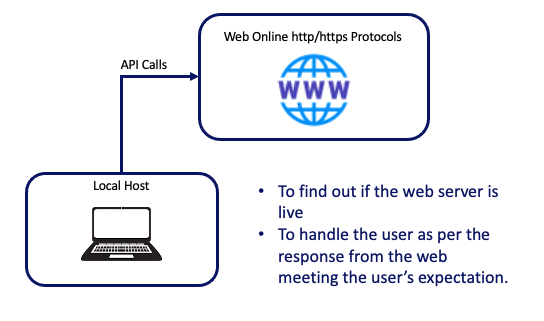
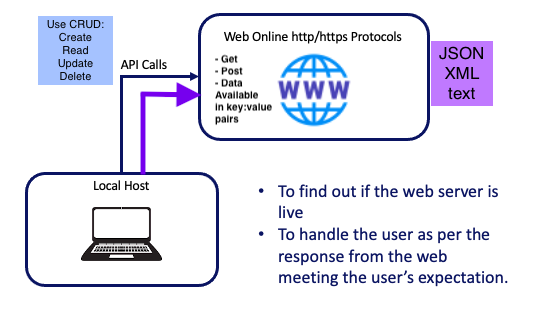
postcode task complete

Changed region(s): [[0.0625, 0.0312, 0.2188, 0.2804], [0.25, 0.1558, 0.5, 0.5607], [0.7812, 0.1246, 0.9062, 0.3427]]

diff --git a/python_api_with_requests.py b/python_api_with_requests.py
@@ -1,16 +1,47 @@
-# importing requests t make an api call to the web
-
+# importing requests to make an api call to the web
 import requests
+# Importing emoji library
 from emoji import emojize
 
-
+# # Create a variable to get data from a website
 live_response=requests.get("https://www.bbc.co.uk/")
-print(live_response.status_code)
-# Returns an integer response code.
-# code 200 to show this website is live.
-# We can use an if statement to return a print statement.
-if live_response.status_code==200:
-    print("This website is live. Status code: " + str(live_response.status_code) + emojize((" :thumbs_up:")))
+# # Print the status code. Returns an integer
+# print(live_response.status_code)
+#
+# print(live_response.headers)
+# print(type(live_response.content))
+# # We can use an if statement to return a print statement.
 
-else:
-    print("Ooops something went wrong, please try later")
+# # ITERATION 1
+# if live_response.status_code==200:
+#     print("This website is live. Status code: " + str(live_response.status_code) + emojize((" :thumbs_up:")))
+# elif live_response.status_code==404:
+#     print(" This site is unavailable until further notice. Please contact support")
+# else:
+#     print("Oops something went wrong, please try later")
+
+# # ITERATION 2
+# def check_response_code():
+#     if live_response.status_code==200:
+#         print("This website is live. Status code: " + str(live_response.status_code) + emojize(" :thumbs_up:"))
+#     elif live_response.status_code==404:
+#         print(" This site is unavailable until further notice. Please contact support")
+#     else:
+#         print("Oops something went wrong, please try later")
+#
+# check_response_code()
+
+
+# THIRD ITERATION
+# Why do we use the requests module?
+# If we get rid of the stats codes, the code still works because of the request method
+def check_response_code():
+    if live_response.status_code:
+        print("This website is live. Status code: " + str(live_response.status_code) + emojize(" :thumbs_up:"))
+    elif live_response.status_code:
+        print(" This site is unavailable until further notice. Please contact support")
+    else:
+        print("Oops something went wrong, please try later")
+check_response_code()
+# It will evaluate to True if the status code is between 200-400, otherwise False. This is the built in functionality provided within the requests library.
+

diff --git a/postcode_task.py b/postcode_task.py
@@ -1,0 +1,43 @@
+# Import relevant libraries
+import requests
+import json
+from emoji import emojize
+
+# Get a user to input their postcode
+argument=input("Please enter your postcode: ")
+# Concatenate onto the get request
+live_response=requests.get("http://api.postcodes.io/postcodes/" + argument)
+
+# Create a function to check the status code
+def check_response_code():
+    # If the function code is 200, postcode has been identified
+    if live_response.status_code==200:
+        print("Status Code: " + str(live_response.status_code) +". This postcode exists." +  emojize(" :thumbs_up:"))
+    # If status code is 400 or 404, postcode is incorrect or has not been entered
+    elif live_response.status_code==404 or live_response.status_code==400:
+        print("Status Code: "+ str(live_response.status_code) + ". This postcode is incorrect. Please try again." + emojize(" :thumbs_down:"))
+    else:
+        print("Oops something went wrong, please try later")
+
+# create a function that returns the longitude and latitude of the given postcode
+def long_and_lat():
+    # Convert bytes into dictionary format
+    content_dictionary = json.loads(live_response.content)
+    # If the status code is 200, contents can be retrieved
+    if live_response.status_code==200:
+        # Dictionary indexing to identify the result, longitude and latitude.
+        result = content_dictionary['result']
+        longitude = content_dictionary['result']['longitude']
+        latitude = content_dictionary['result']['latitude']
+        # Return as a formatted string
+        return ("RESULT: {} \n"
+                "Longitude: {}\n"
+                "Latitude: {}".format(result,longitude,latitude))
+    # Otherwise, return error message.
+    else:
+        return "Cannot determine latitude and longitude from an invalid input"
+
+
+# Call the functions
+check_response_code()
+print(long_and_lat())

diff --git a/README.md b/README.md
@@ -7,6 +7,8 @@
 # Python Modules
 * Built in functions which help us accelerate our development of software. 
 * We access and use libraries by importing them in. 
+* Import is the keyword we use to call modules from Python Libraries.
+
 * Syntax: 
 ```python
 import <library_name>
@@ -15,13 +17,41 @@ import <library_name>
 ```python
 import math
 ```
-* We can import specific modules within a library
+* We can also import specific modules within a library
 ``` from <library_name> import <module_name>```
-* For example:
+  * For example:
 ```python
 from random import random
 ```
+## Python Libraries
+1. ```random```
+  * The ```random``` library is typically used when we need a fair way to generate random variables, whether that is integers, strings etc. 
+  * A typical use case would be lottery numbers.
+```python
+import random
+# Inside the random library we have a function called random which we can execute.
+print(random.random()) # This will print a random number
 
+# We can use another method randint to get a random integer between a specified range, in this case 1 and 100
+print(random.randint(1,100))
+ ```
+
+2. ```math```
+* We can also import the math library to make use of a method called the floor method which rounds down.
+```python
+
+import math
+
+num_float = 23.24
+print(" floor method rounds the figure to lower end ")
+print(math.floor(num_float)) #Prints 23
+print("ceil() method rounds the figure up. ")
+print(math.ceil(num_float)) #Prints 24
+```
+* Within math, we also have ```pi``` which as the name suggests, return the value of pi.
+```python
+print(math.pi) # Returns pi
+```
 
 # Task 1
 1. Get user input as float
@@ -45,8 +75,43 @@ else:
 ```
 
 ## System-Based Libraries
+* These can help us find out our system configuration or system related information.
+* Based on information provided, we can handle user request.
+* To access this information, we import the ```os``` and ```sys``` libraries.
+* We also import datetime and math as these will be used in the examples. 
+```python
+import os
+import math, datetime,sys
+```
 
-* To find out the system path
+### Example Methods
+1. Working Directory - When we download something, we need path to create an environment variable so using ths command helps us identify our current working directory.
+```python
+# working_dir=os.getcwd() # see current path
+# print(working_dir)
+```
+
+2. OS - Find the name of our operating system. NB: This only works on Linux and Mac
+```python
+print(os.uname())
+```
+3. 
+```python
+
+#
+# # Lets count the number of CPUs in our system OS
+# # To download, we have pre-requisites
+# print(os.cpu_count()) # Returns 4
+#
+# # We have imported datetime
+# # We can get the date and time of today using the command below.
+# print(datetime.datetime.today())
+```
+
+
+
+
+* To find out the system path.
 * We can create a customised method and utilise the built in functionality at the same time.
 * Why? Not everyone is technical, we need to explain in laymen terms exactly what they are looking at. 
 ```python
@@ -58,15 +123,73 @@ print(current_system_path())
 
 
 
+
+
+
+
+
+
+
+
 # APIs in Python          
 * Application Programming Interface     
 * Packages help us use the code internally, connect to web APIs. APIs provide us with a connection interfaces.  
-[API Diagram](/API%20diagram.png)
-#£ What is pip
+![API Diagram](/API%20diagram.png)
+## What is pip
 * Package manager for Python.
 * We use it to install external packages such as requests. 
 * syntax: ```pip install <name_of_package>```
 
+# Request
+An example of a package we can install is the requests package. This enables us to scrape live data from a website.
+```python
 
+import requests
+from emoji import emojize
 
+live_response=requests.get("https://www.bbc.co.uk/")
+print(live_response.status_code)  
+```
+* This will return an integer as the response code.
+* 200 tells us that the website is live and working.
+* 404 tells us that the website is not working. 
+* Many more status codes exist but these can easily be looked up. 
+* We can use an if statement to add more detail and tell the user what the 200 means.
+* Note, the emoji package has also been installed and imported. This allows us to use emojis. 
+```python
+if live_response.status_code==200:
+    print("This website is live. Status code: " + str(live_response.status_code) + emojize((" :thumbs_up:")))
+else:
+    print("Ooops something went wrong, please try later")
+```
 
+## Implement DRY
+* A key principle of Python is Don't Repeat Yourself. Therefore we can create a function to store the above code. This simply entails encapsulating the block of code in a a def statement:
+```python
+def check_response_code():
+    if live_response.status_code==200:
+        print("This website is live. Status code: " + str(live_response.status_code) + emojize(" :thumbs_up:"))
+    elif live_response.status_code==404:
+        print(" This site is unavailable until further notice. Please contact support")
+    else:
+        print("Oops something went wrong, please try later")
+ 
+# This is a function so it needs to be called. 
+check_response_code()
+```
+
+## Why use the requests library?
+In the status code example, we can get rid of the numbers and the code will still run.
+* This is because the requests module is designed such that it will evaluate to **True if the status code is between 200-400**, otherwise False. 
+* This is the built in functionality provided within the requests library.
+```python
+# Why do we use the requests module?
+def check_response_code():
+    if live_response.status_code:
+        print("This website is live. Status code: " + str(live_response.status_code) + emojize(" :thumbs_up:"))
+    elif live_response.status_code:
+        print(" This site is unavailable until further notice. Please contact support")
+    else:
+        print("Oops something went wrong, please try later")
+check_response_code()
+```
